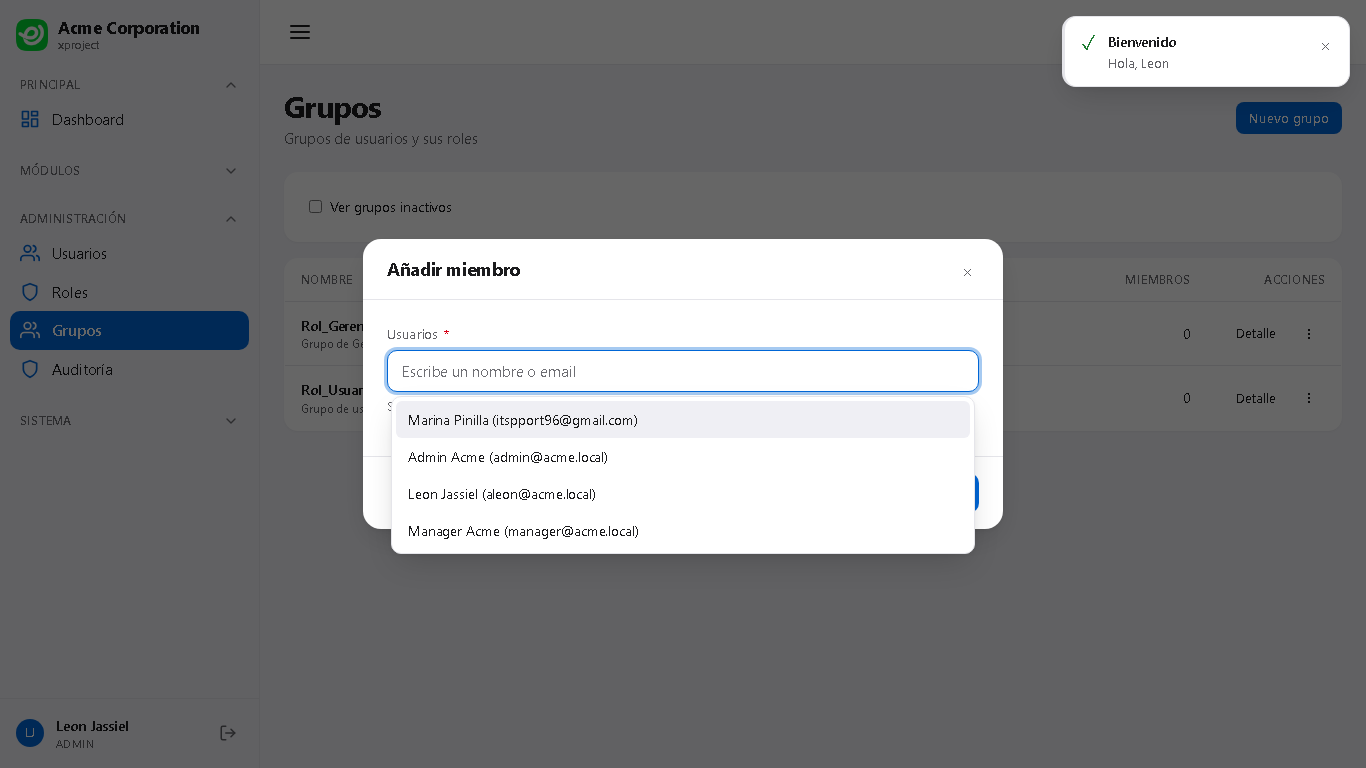
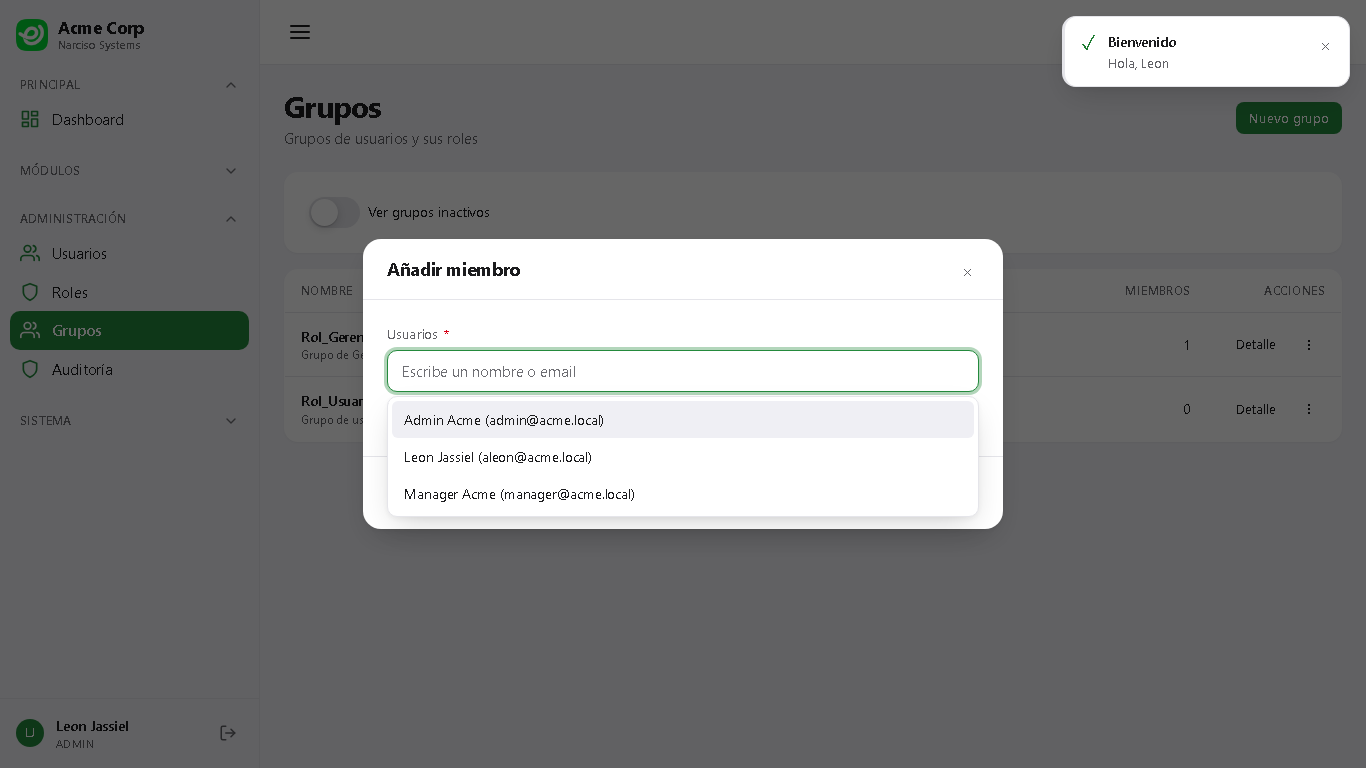
Fix grupos: columna Miembros de la tabla se refresca tras alta/baja de miembros sin recargar - refreshGroupRow() sincroniza state.items[].miembros + memberCounts y repinta desde loadDetail (el modal ya refrescaba, la tabla no, y renderTable priorizaba g.miembros obsoleto); harness del smoke con grou

diff --git a/public/js/modules/groups/groups.js b/public/js/modules/groups/groups.js
@@ -117,6 +117,7 @@
     }
 
     function renderTable() {
+        if (!container) return;
         const root = container.querySelector('[data-groups-table]');
         if (!root) return;
 
@@ -275,7 +276,7 @@
                 detail.members = (membersPayload && membersPayload.members) || [];
                 detail.roles = (rolesPayload && rolesPayload.roles) || [];
                 detail.loading = false;
-                state.memberCounts[detail.id] = detail.members.length;
+                refreshGroupRow(detail.id, detail.members.length);
                 renderModal();
             }
             return true;
@@ -288,6 +289,20 @@
             }
             return false;
         }
+    }
+
+    /**
+     * Tras mutar miembros (alta/baja), sincroniza la fila del grupo en la
+     * tabla de fondo con el conteo fresco del servidor y la repinta.
+     * `renderTable` da prioridad a `g.miembros` (el valor del listado
+     * inicial), así que sin actualizar también esa propiedad la columna
+     * Miembros conserva el número viejo hasta recargar la pagina.
+     */
+    function refreshGroupRow(groupId, memberCount) {
+        state.memberCounts[groupId] = memberCount;
+        const idx = state.items.findIndex(g => String(g.id) === String(groupId));
+        if (idx !== -1) state.items[idx].miembros = memberCount;
+        renderTable();
     }
 
     function detailBody(modal) {
